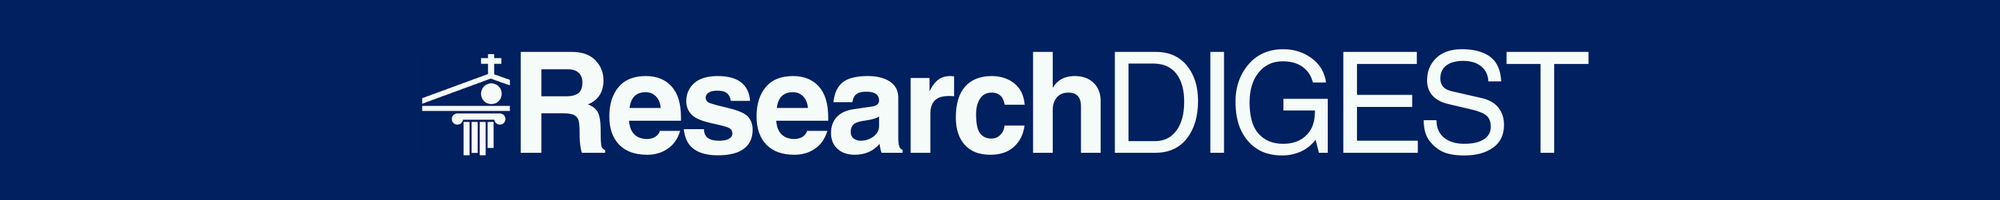
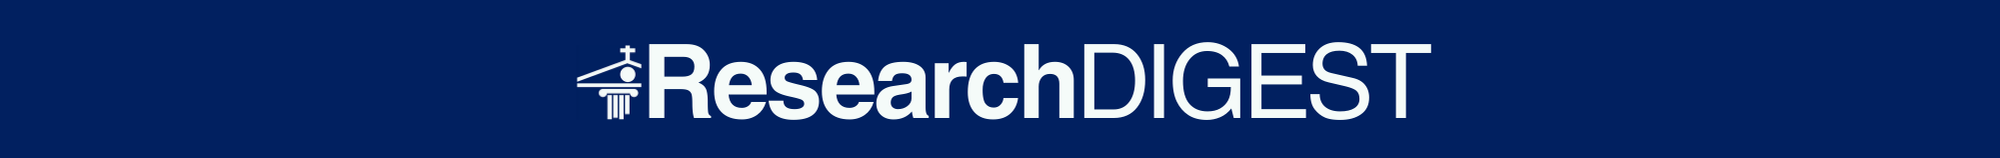
.

Changed region(s): [[0.186, 0.2278, 0.806, 0.7848]]

diff --git a/publications/publications.html b/publications/publications.html
@@ -10,7 +10,7 @@
     <link rel="stylesheet" href="../assets/style.css">
 </head>
 <body>
-    <img src="../assets/images/header1 (1).png" alt="Header Banner" class="header-image">
+    <img src="../assets/images/header1.png" alt="Header Banner" class="header-image">
     <nav>
         <a href="../index.html"><img src="../assets/images/assrc-logo.png" alt="Logo" class="logo"></a>
         <a href="../index.html">Home</a>

diff --git a/stories/stories.html b/stories/stories.html
@@ -10,7 +10,7 @@
     <link rel="stylesheet" href="../assets/style.css">
 </head>
 <body>
-    <img src="../assets/images/header1 (1).png" alt="Header Banner" class="header-image">
+    <img src="../assets/images/header1.png" alt="Header Banner" class="header-image">
     <nav>
         <a href="../index.html"><img src="../assets/images/assrc-logo.png" alt="Logo" class="logo"></a>
         <a href="../index.html">Home</a>

diff --git a/index.html b/index.html
@@ -10,7 +10,7 @@
     <link rel="stylesheet" href="assets/style.css">
 </head>
 <body>
-    <img src="assets/images/header1 (1).png" alt="Header Banner" class="header-image">
+    <img src="assets/images/header1.png" alt="Header Banner" class="header-image">
     <nav>
         <a href="index.html"><img src="assets/images/assrc-logo.png" alt="Logo" class="logo"></a>
         <a href="index.html">Home</a>
